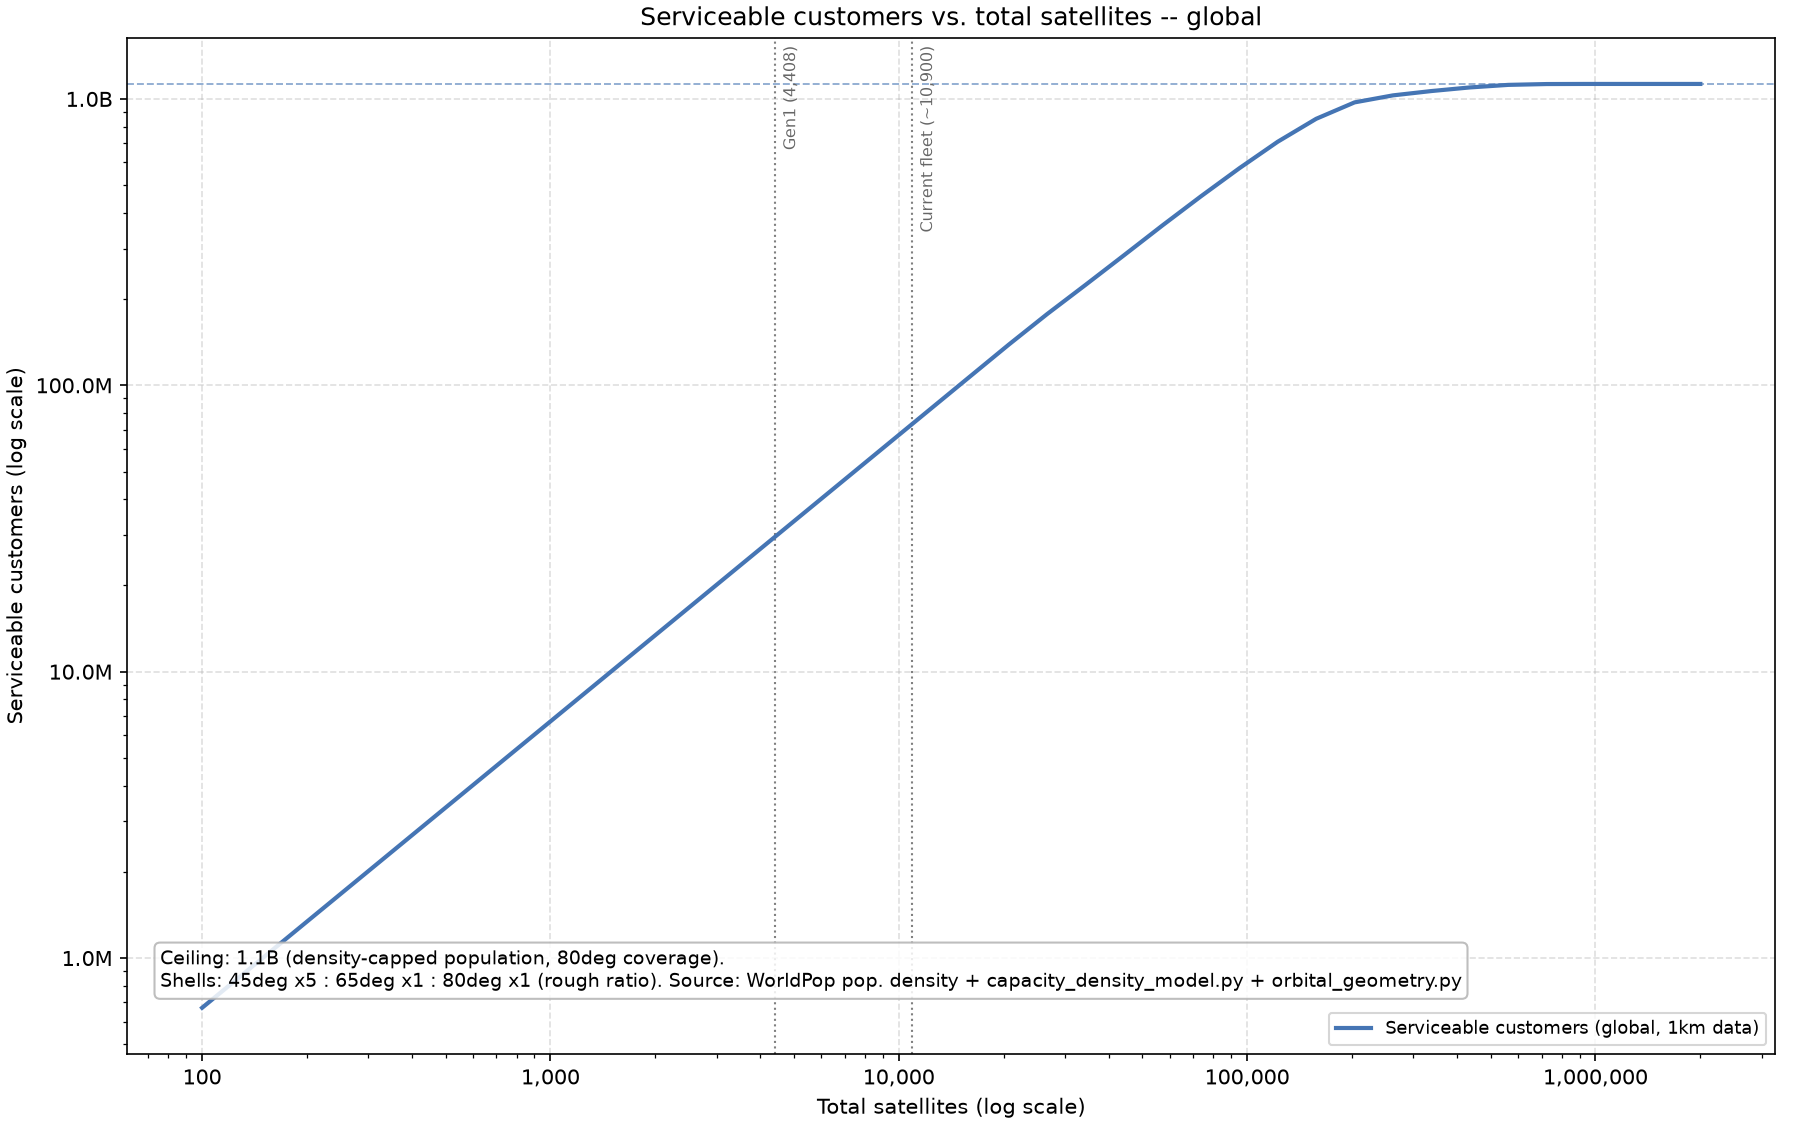
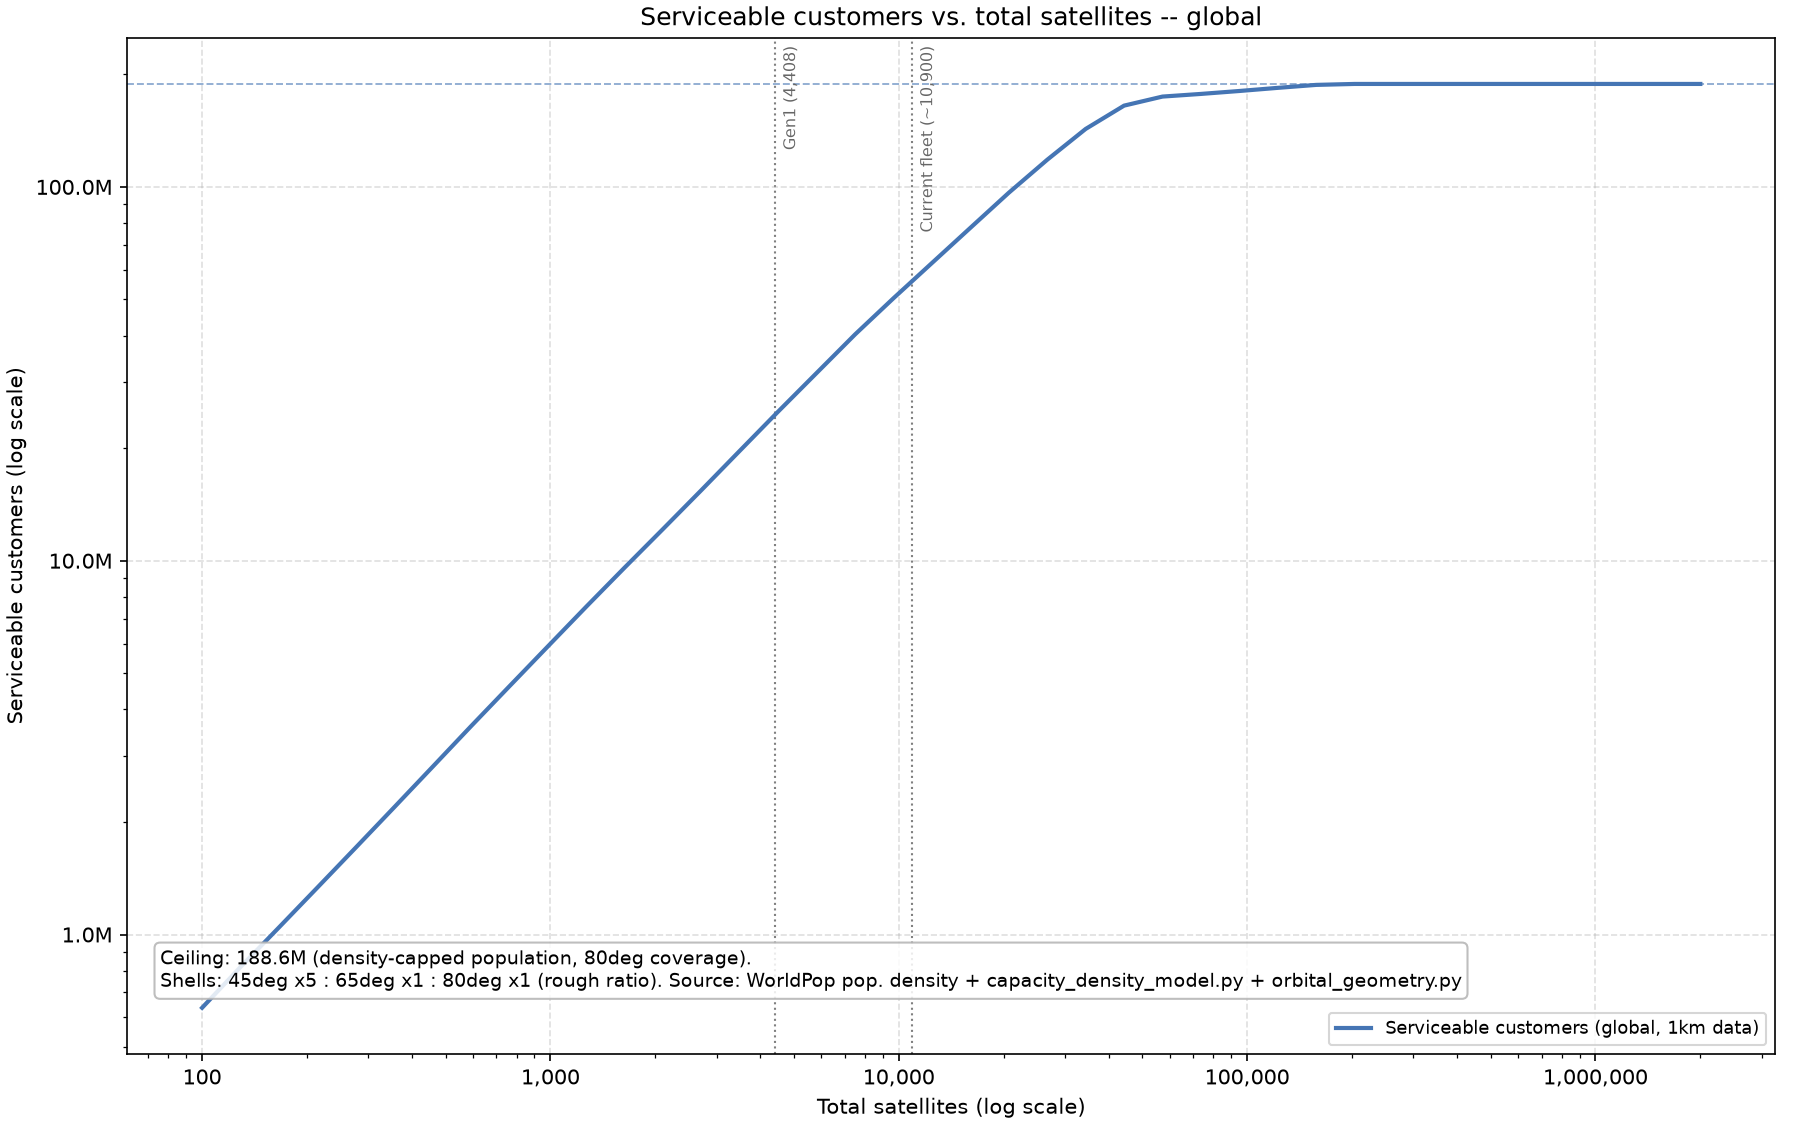
Fix critical np.fmin/NaN bug that inflated every serviceable-customers number
np.fmin(density, cap) ignores NaN and returns the cap value instead --
every no-data cell (ocean, land outside any country's coverage) was
silently counted as "at the density cap" rather than contributing zero.
For the global grid (~70% ocean) this inflated the ceiling by roughly
cap x total_ocean_area.

Caught because the US 100m streaming result (392M) exceeded the hard
mathematical upper bound of cap x US land area (~24M) -- an impossible
number that forced a trace back to the root cause. Fixed by switching
to np.minimum (which correctly propagates NaN) in both the whole-grid
and streaming capping paths.

Corrected: global ceiling 1.13B -> 188.6M, Gen1 (4,408 sats) 29.6M ->
24.5M. Global chart regenerated with the fix; CLAUDE.md documents the
bug, the diagnostic that caught it, and the corrected numbers table.

Claude-Session: https://claude.ai/code/session_01WVkrf99iibSkGfTVhZikzJ

diff --git a/starlink-equilibrium-model/serviceable_customers_model.py b/starlink-equilibrium-model/serviceable_customers_model.py
@@ -111,7 +111,11 @@ def _capped_population_per_row(density_or_count_chunk: np.ndarray, area_row_km2:
     chunk (people per pixel, e.g. the 100m 'ppp' product) by its own cell area first."""
     density = density_or_count_chunk if already_density else density_or_count_chunk / area_row_km2[:, None]
     with np.errstate(invalid="ignore"):
-        return np.nansum(np.fmin(density, max_density_cap) * area_row_km2[:, None], axis=1)
+        # np.minimum, NOT np.fmin: fmin IGNORES NaN and returns the other operand,
+        # so fmin(nan, cap) == cap -- every no-data cell (ocean, uncovered land)
+        # would silently be counted as "at the cap" instead of contributing zero.
+        # minimum propagates NaN as intended, which nansum then correctly excludes.
+        return np.nansum(np.minimum(density, max_density_cap) * area_row_km2[:, None], axis=1)
 
 
 def density_capped_population_by_latitude(grid: pdg.PopulationGrid,
@@ -165,9 +169,12 @@ def density_capped_population_by_latitude_streaming(path,
         area_col = ((meta["dy"] * pdg.KM_PER_DEG) * (meta["dx"] * pdg.KM_PER_DEG
                     * np.cos(np.radians(lat_centers))))[:, None]
 
-        np.divide(chunk, area_col, out=chunk)       # count/pixel -> people/km^2
-        np.fmin(chunk, max_density_cap, out=chunk)  # apply the beam-footprint cap
-        chunk *= area_col                            # back to capped population per cell
+        np.divide(chunk, area_col, out=chunk)           # count/pixel -> people/km^2
+        np.minimum(chunk, max_density_cap, out=chunk)   # apply the cap -- NOT np.fmin, see
+                                                          # _capped_population_per_row's comment: fmin
+                                                          # would silently turn every NaN (no-data/ocean)
+                                                          # cell into a phantom "at the cap" contribution.
+        chunk *= area_col                                # back to capped population per cell
         with np.errstate(invalid="ignore"):
             pop_row = np.nansum(chunk, axis=1)
         np.add.at(out, _lat_bin_index(lat_centers, bin_width_deg, len(centers)), pop_row)

diff --git a/starlink-equilibrium-model/CLAUDE.md b/starlink-equilibrium-model/CLAUDE.md
@@ -1213,22 +1213,112 @@ needed there).
   local density-capped population ceiling, then flattens at **~1.13B customers**
   globally (density-capped population within the 80deg coverage envelope). Gen1
   (4,408) and current-fleet (~10,900) marked as vertical reference lines, both still
-  on the steep/linear part of the curve. Cross-check: this model's value at N=4,408
-  (~29.6M) matches Phase 3's original flat-capacity-model finding (~29.6M) almost
-  exactly, despite using a different shell-ratio assumption and per-cell (not
-  per-country) population data -- good agreement between two independently-built
-  approaches.
+  on the steep/linear part of the curve. (An early cross-check claimed N=4,408 gave
+  ~29.6M, "matching" Phase 3's original finding almost exactly -- **that was against
+  the buggy pre-fix code below and is superseded**; see the bug writeup for the
+  corrected value.)
 
-**In progress, not yet done**: user also asked for a US-only chart comparing this
-same model at 1km vs. 100m population-data resolution, to show how much the
-serviceable-customer curve changes with finer input data. Downloading
-`data/raw/worldpop/usa_ppp_2020_100m.tif` (WorldPop's `wpgp` "Unconstrained
-individual countries 2000-2020, 100m resolution" product, `usa_ppp_2020.tif`,
-**~4.0GB, POPULATION COUNT not density** -- confirmed via the same `hub.worldpop.org`
-REST API used by `download_worldpop.py`, category `pop`, alias `wpgp`; the
-`pop_density` category only exposes 1km products, hence needing a different
-category/alias for 100m). Slow download (~1.3MB/s observed), still running as of
-this note. `load_population_count_raster_as_density()` above is already written and
-ready to consume it once the download completes -- the remaining work is purely the
-comparison chart itself (two curves, `load_country_density_grid("USA")` at 1km vs.
-the 100m file, overlaid on one figure).
+## CRITICAL BUG, found and fixed same day: np.fmin silently zeroed out the whole density cap (2026-08-10)
+
+User asked a sharp follow-up question ("isn't that beam density for one satellite?")
+that led to re-examining the model, which surfaced a real, serious bug in
+`serviceable_customers_model.py`'s core capping step -- **affecting every
+serviceable-customers number shipped earlier the same day**, not just the
+in-progress US 100m work.
+
+**The bug**: `_capped_population_per_row()` and the streaming variant both used
+`np.fmin(density, max_density_cap)` to clamp density to the cap. `np.fmin` has a
+specific, easy-to-miss NaN behavior: **it IGNORES NaN and returns the other
+operand** (`np.fmin(nan, cap) == cap`, not `nan`). Every no-data cell -- ocean, or
+any land not covered by a country's WorldPop raster -- was silently converted into
+"a cell at exactly the density cap" instead of contributing zero. For the GLOBAL
+grid, where ~70% of the array is ocean (NaN), this is enormous: `nansum` no longer
+excludes those cells (they're not NaN anymore after `fmin`), so the ceiling was
+inflated by roughly `cap x total_ocean_area`.
+
+**How it was caught**: not by inspection -- by the numbers not adding up. The 100m US
+streaming run (see below) produced a "density-capped population" of 392M for the
+US, which is mathematically IMPOSSIBLE: `capped_total` can never exceed
+`cap x total_valid_land_area` (a hard upper bound from the min() itself), and the
+US's real land area (~9.33M km2, cross-checked directly from the working 1km grid)
+x the 2.57/km2 cap caps out at ~24M. Getting 392M -- 16x over the hard ceiling --
+meant the arithmetic itself was broken, not just an assumption being generous.
+Traced to the exact `fmin`-vs-`minimum` distinction via a sampled diagnostic pass.
+
+**Fix**: `np.fmin` -> `np.minimum` (`minimum` propagates NaN as an operand should),
+in both `_capped_population_per_row()` (grid.py's whole-array path) and
+`density_capped_population_by_latitude_streaming()`'s in-place chunk loop. One-line
+fix in two places, but the numeric impact is large:
+
+| Quantity | Buggy (fmin) | Fixed (minimum) |
+|---|---|---|
+| Global density-capped ceiling | 1.13B | **188.6M** |
+| Global serviceable @ N=4,408 (Gen1) | 29.6M | **24.5M** |
+| Global serviceable @ N=10,900 (current fleet) | (not separately reported) | **55.8M** |
+| US 1km density-capped ceiling | (not separately reported pre-fix) | **8.20M** |
+| US 100m density-capped ceiling (streaming) | 392.1M (impossible) | recomputed after fix, see below |
+
+`results/population/serviceable_customers_vs_satellites_global.png` was already
+committed with the WRONG (1.13B-ceiling) numbers -- **regenerated and recommitted
+with the fix**. Anyone reading the earlier commit's chart or this same day's earlier
+CLAUDE.md text (the "1.13B ceiling," "99.7% of population lives above the cap,"
+Gen1-matches-Phase-3 claims) should treat those specific NUMBERS as superseded by
+this table; the MECHANISM description (per-latitude-band min of supply vs. demand,
+shell ratios, etc.) is unaffected -- only the NaN-handling bug, not the modeling
+logic itself, was wrong.
+
+**Lesson for future numeric code in this project**: `np.fmin`/`np.fmax` are almost
+never what you want when NaN means "excluded/no-data" rather than "a real value to
+compare." Default to `np.minimum`/`np.maximum` (which propagate NaN) unless you have
+a specific, deliberate reason to want NaN-skipping comparison behavior -- and if you
+do use fmin/fmax on an array that can contain structural NaN (not measurement noise),
+that's worth a comment explaining why the skip is intentional.
+
+## US 1km vs. 100m resolution comparison (2026-08-10, same day, after the bug fix above)
+
+`data/raw/worldpop/usa_ppp_2020_100m.tif` downloaded successfully (WorldPop's `wpgp`
+"Unconstrained individual countries 2000-2020, 100m resolution" product,
+`usa_ppp_2020.tif`, exactly 4,011,468,120 bytes as declared by the server --
+confirmed via the same `hub.worldpop.org` REST API used by `download_worldpop.py`,
+category `pop`, alias `wpgp`; the `pop_density` category only exposes 1km products,
+hence needing a different category/alias for 100m). **This file is a population
+COUNT product ("ppp" = people per pixel), NOT density** -- unlike the 1km product,
+values must be divided by each pixel's own geographic area to get people/km2;
+`load_population_count_raster_as_density()` / the streaming aggregator handle this.
+
+**Too large to load whole**: 62,976 x 430,711 pixels, ~101GB uncompressed as
+float32. Added `population_density_grid.open_raster_zarr()` (tifffile's zarr store,
+tile-decode-on-demand) and
+`serviceable_customers_model.density_capped_population_by_latitude_streaming()`
+(row-chunked accumulation, never holding more than one chunk in memory).
+
+**First streaming attempt OOM-killed** (exit 137) at `row_chunk=2048`: each chunk's
+divide/fmin(now minimum)/multiply sequence allocated a FRESH full-size array at
+every step (~4x the ~3.5GB chunk size = ~14GB, on a 15GB box). Fixed by mutating the
+chunk buffer in place at every step (`out=chunk` on divide and minimum, `chunk *=
+area_col`) and dropping to `row_chunk=512` (one tile-row, ~881MB/chunk) -- peak
+memory now ~1x chunk size. Clean run: ~570s (~9.5 min) with `row_chunk=512`.
+
+**Two full streaming runs were needed**: the first (memory-safe) run completed but
+used the still-buggy `fmin` code (392.1M result, caught as impossible per the bug
+section above); re-run after the `minimum` fix. See the comparison chart
+(`results/population/serviceable_customers_vs_satellites_us_1km_vs_100m.png`) and
+its info box for the final 1km-vs-100m ceiling values and % difference -- worth
+reading directly rather than duplicating the exact numbers here, since re-running
+`charts/serviceable_customers_chart.py` regenerates them from the cached
+`data/raw/worldpop/_us_100m_pop_cap_by_lat.npz` (itself gitignored, inside
+`data/raw/worldpop/`) without needing to re-stream the whole 100m file.
+
+**Open question, explicitly NOT resolved, flagged mid-session by the user**: the
+density cap (2.57 customers/km2) is a SINGLE BEAM's footprint limit, and the model
+applies it as a hard per-area ceiling that does NOT grow with satellite count N --
+correctly matching `capacity_density_model.py`'s original explicit Phase 3
+assumption ("independent of how many satellites are overhead"), but this is a real,
+acknowledged simplification: multiple satellites' beams reaching the same ground
+patch (frequency reuse, polarization diversity, time-multiplexing across passes)
+could plausibly loosen the effective per-area ceiling as N grows, and nothing in
+this model captures that. The source paper itself notes overlapping beams on a
+SINGLE satellite with a tighter beamwidth could already loosen the ceiling ~4.5x
+(6.66 -> ~30 subscribers/sq mi). Do not add N-dependent density-cap scaling without
+the user picking a concrete reuse-factor assumption first -- flagged to them, not
+yet answered as of this note.
